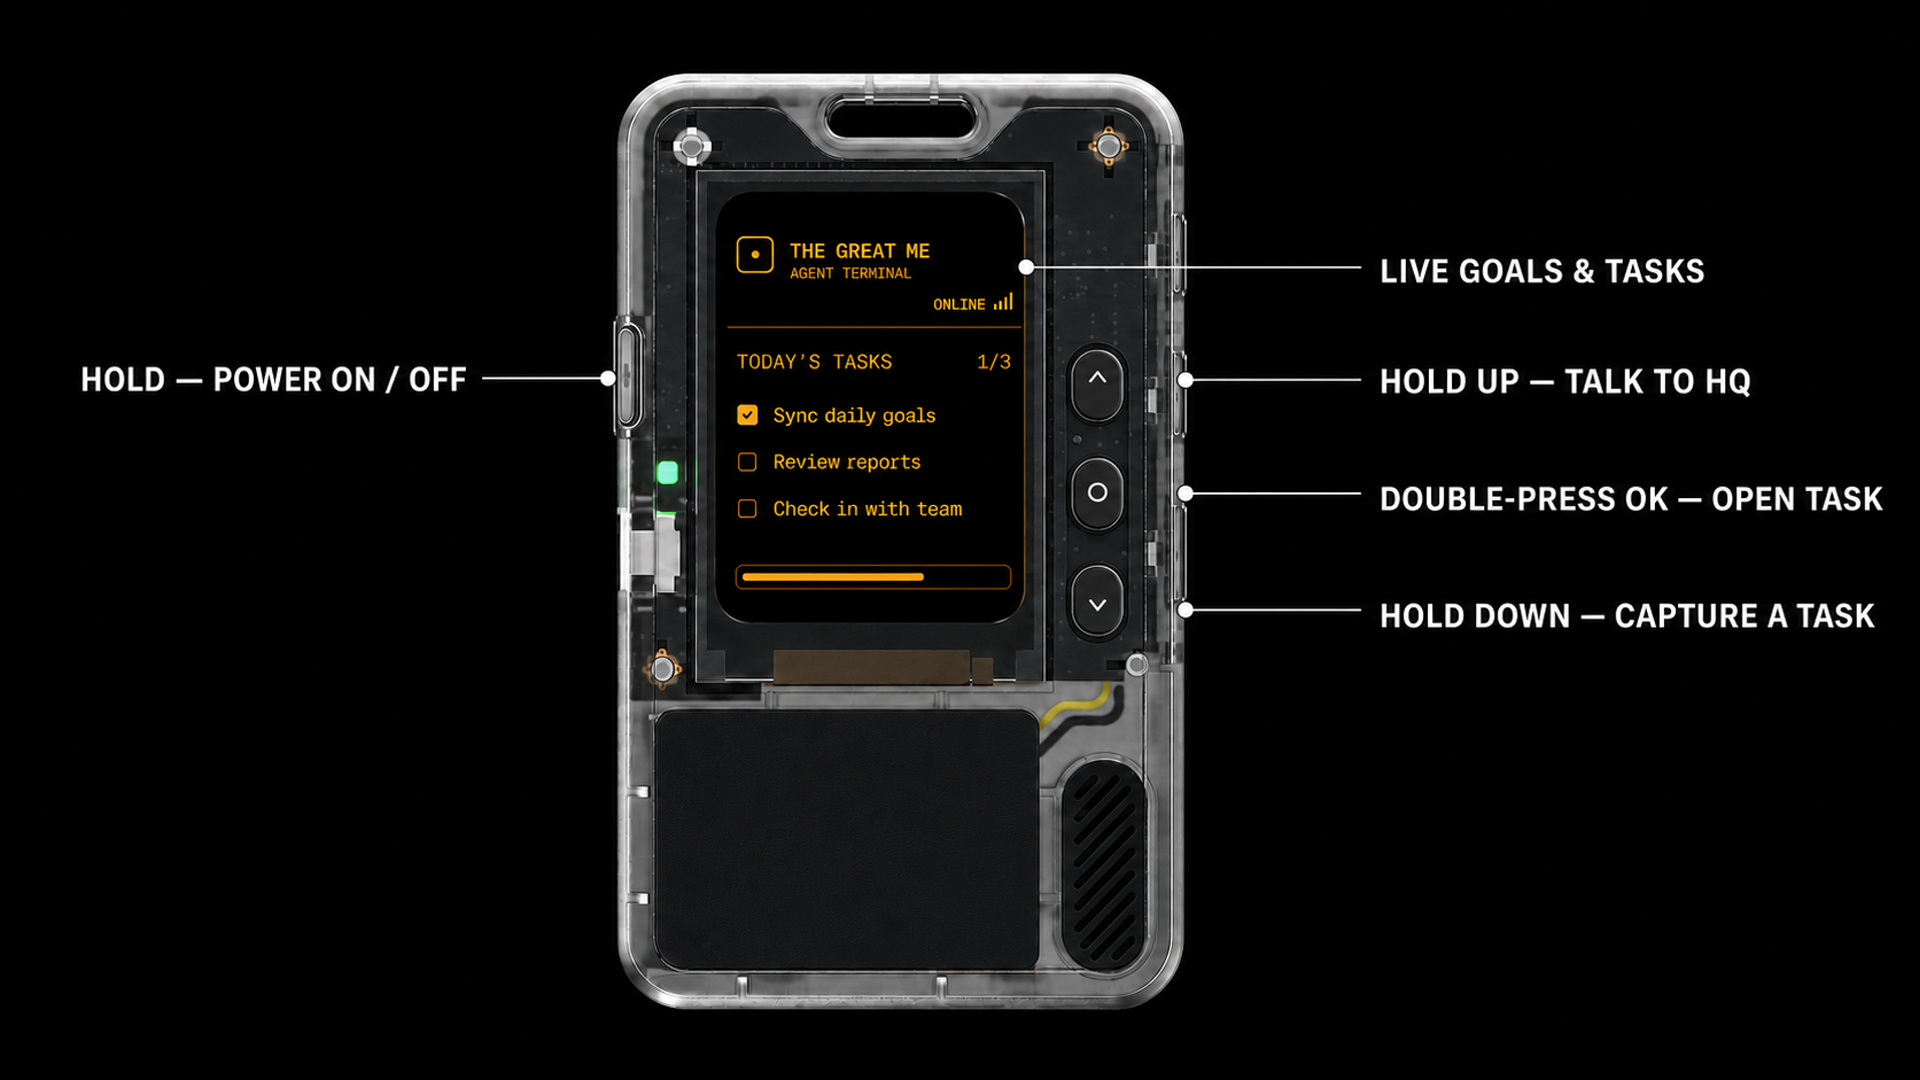
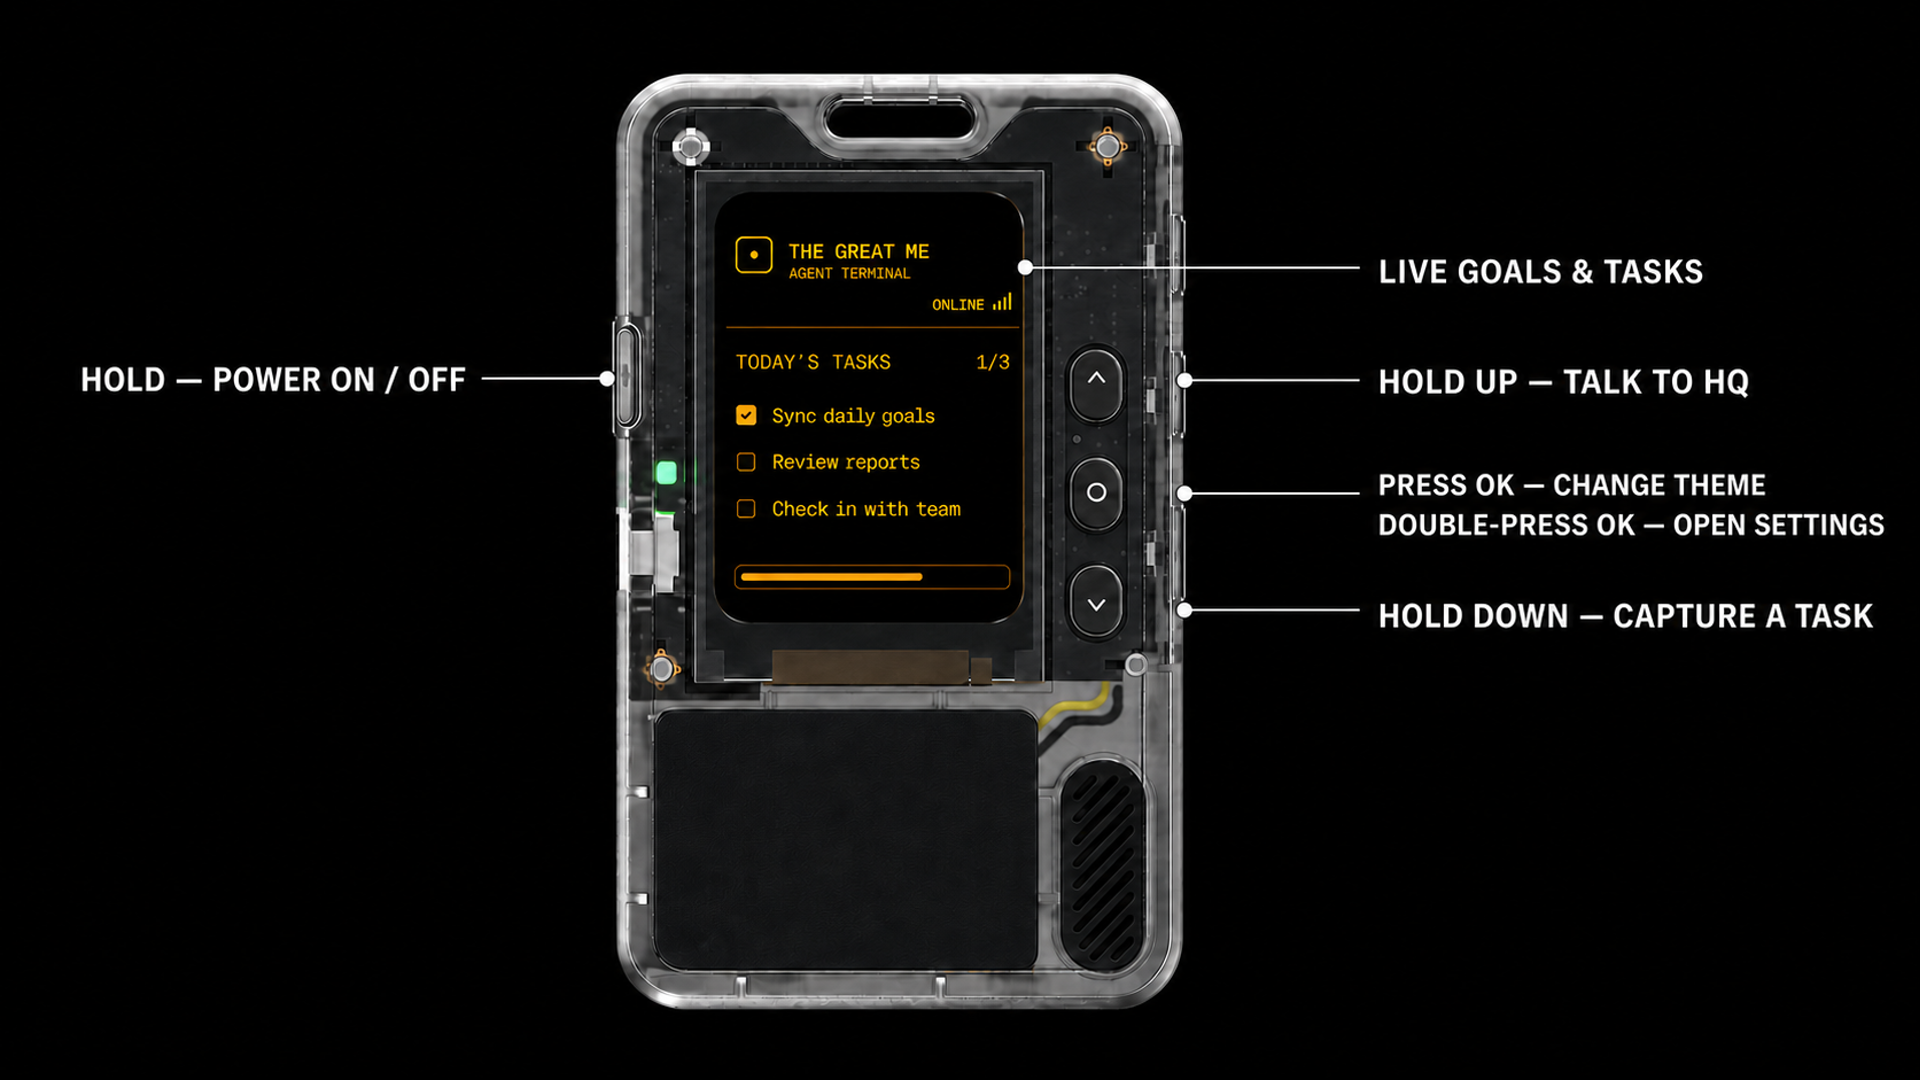
fix(passport): 统一确定键的主题与设置操作
Code: Make a single OK press cycle themes from every terminal page and reserve double OK for opening Settings. Update the control hints across all eight localized terminal copies, align the bilingual README and changelog, and refresh the matching English and Chinese callout artwork.

Files: main/demo_ble.c; README.md; README.zh_CN.md; docs/CHANGELOG.md; docs/CHANGELOG.zh_CN.md; assets/images/thegreatme-passport-terminal-callouts-16x9.png; assets/images/thegreatme-passport-terminal-callouts-zh-cn-16x9.png.

Validation: The complete repository gate passed, including static checks, host tests, the firmware build, the merged-image check, and the mini-program installation compatibility contract. Physical-device interaction remains unverified because no USB device was available.

diff --git a/main/demo_ble.c b/main/demo_ble.c
@@ -168,8 +168,8 @@ static const companion_copy_t companion_copies[] = {
         "伟大的我", "特工终端", { "琥珀", "黑色", "暖白", "数码绿" },
         { "本周目标", "本月目标", "年度目标" },
         { "等待本周目标", "等待本月目标", "等待年度目标" },
-        "今日任务", "等待手机同步今日任务", "上下切换  双击确定全屏",
-        "上下切换  双击确定返回",
+        "今日任务", "等待手机同步今日任务", "确定:主题  双击:设置",
+        "上下切换  双击:设置",
         "长按上:对话  长按下:任务", "你", "总部", "长按上键说话", "总部说话中",
         "听写中", "总部输入中", "长按上键继续", "连接中断", "系统设置", "连接状态",
         "[等待 iPhone]", "● 已连接 iPhone", "固件版本", "主题选择",
@@ -182,8 +182,8 @@ static const companion_copy_t companion_copies[] = {
         "偉大的我", "特工終端", { "琥珀", "黑色", "暖白", "數碼綠" },
         { "本週目標", "本月目標", "年度目標" },
         { "等待本週目標", "等待本月目標", "等待年度目標" },
-        "今日任務", "等待手機同步今日任務", "上下切換  雙擊確定全屏",
-        "上下切換  雙擊確定返回",
+        "今日任務", "等待手機同步今日任務", "確定:主題  雙擊:設定",
+        "上下切換  雙擊:設定",
         "長按上:對話  長按下:任務", "你", "總部", "長按上鍵說話", "總部說話中",
         "聽寫中", "總部輸入中", "長按上鍵繼續", "連線中斷", "系統設定", "連線狀態",
         "[等待 iPhone]", "● 已連線 iPhone", "韌體版本", "主題選擇",
@@ -196,8 +196,8 @@ static const companion_copy_t companion_copies[] = {
         "THE GREAT ME", "AGENT TERMINAL", { "AMBER", "BLACK", "WARM WHITE", "DIGITAL GREEN" },
         { "WEEKLY GOAL", "MONTHLY GOAL", "ANNUAL GOAL" },
         { "Waiting for weekly goal", "Waiting for monthly goal", "Waiting for annual goal" },
-        "TODAY'S TASKS", "Waiting for iPhone tasks", "UP/DOWN + OKx2: View",
-        "UP/DOWN: Switch  Double OK: Back",
+        "TODAY'S TASKS", "Waiting for iPhone tasks", "OK: Theme  OKx2: Settings",
+        "UP/DOWN: Switch  OKx2: Settings",
         "Hold UP: chat  DOWN: task", "YOU", "HQ", "Hold UP to talk", "HQ speaking",
         "Transcribing", "HQ typing", "Hold UP to continue", "Connection lost", "SYSTEM SETTINGS",
         "CONNECTION", "[WAITING FOR IPHONE]", "● IPHONE CONNECTED", "FIRMWARE", "THEME",
@@ -210,8 +210,8 @@ static const companion_copy_t companion_copies[] = {
         "MI GRAN YO", "TERMINAL DE AGENTE", { "ÁMBAR", "NEGRO", "BLANCO", "VERDE DIGITAL" },
         { "OBJETIVO SEMANAL", "OBJETIVO MENSUAL", "OBJETIVO ANUAL" },
         { "Esperando objetivo semanal", "Esperando objetivo mensual", "Esperando objetivo anual" },
-        "TAREAS DE HOY", "Esperando tareas del iPhone", "UP/DOWN + OKx2: Ver",
-        "UP/DOWN: Cambiar  Doble OK: Volver",
+        "TAREAS DE HOY", "Esperando tareas del iPhone", "OK: Tema  OKx2: Ajustes",
+        "UP/DOWN: Cambiar  OKx2: Ajustes",
         "Mantén UP: chat  DOWN: tarea", "TÚ", "HQ", "Mantén UP para hablar", "HQ está hablando",
         "Transcribiendo", "HQ está escribiendo", "Mantén UP para seguir", "Conexión perdida",
         "AJUSTES", "CONEXIÓN", "[ESPERANDO IPHONE]", "● IPHONE CONECTADO", "FIRMWARE", "TEMA",
@@ -224,8 +224,8 @@ static const companion_copy_t companion_copies[] = {
         "LE GRAND MOI", "TERMINAL D'AGENT", { "AMBRE", "NOIR", "BLANC CHAUD", "VERT NUMÉRIQUE" },
         { "OBJECTIF SEMAINE", "OBJECTIF MENSUEL", "OBJECTIF ANNUEL" },
         { "Objectif semaine en attente", "Objectif mensuel en attente", "Objectif annuel en attente" },
-        "TÂCHES DU JOUR", "Tâches iPhone en attente", "UP/DOWN + OKx2: Voir",
-        "UP/DOWN: Changer  Double OK: Retour",
+        "TÂCHES DU JOUR", "Tâches iPhone en attente", "OK: Thème  OKx2: Réglages",
+        "UP/DOWN: Changer  OKx2: Réglages",
         "Maintenir UP: chat DOWN: tâche", "VOUS", "HQ", "Maintenir UP pour parler", "HQ parle",
         "Transcription", "HQ écrit", "Maintenir UP pour continuer", "Connexion perdue", "RÉGLAGES",
         "CONNEXION", "[IPHONE EN ATTENTE]", "● IPHONE CONNECTÉ", "FIRMWARE", "THÈME",
@@ -238,8 +238,8 @@ static const companion_copy_t companion_copies[] = {
         "MEIN GROSSES ICH", "AGENTENTERMINAL", { "BERNSTEIN", "SCHWARZ", "WARMWEISS", "DIGITALGRÜN" },
         { "WOCHENZIEL", "MONATSZIEL", "JAHRESZIEL" },
         { "Warte auf Wochenziel", "Warte auf Monatsziel", "Warte auf Jahresziel" },
-        "HEUTIGE AUFGABEN", "Warte auf iPhone-Aufgaben", "UP/DOWN + OKx2: Ansicht",
-        "UP/DOWN: Wechsel  OK doppelt: Zurück",
+        "HEUTIGE AUFGABEN", "Warte auf iPhone-Aufgaben", "OK: Thema  2xOK: Einst.",
+        "UP/DOWN: Wechsel  2xOK: Einst.",
         "UP halten: Chat DOWN: Aufgabe", "DU", "HQ", "UP halten zum Sprechen", "HQ spricht",
         "Transkription", "HQ schreibt", "UP halten zum Fortsetzen", "Verbindung getrennt", "EINSTELLUNGEN",
         "VERBINDUNG", "[WARTE AUF IPHONE]", "● IPHONE VERBUNDEN", "FIRMWARE", "THEMA",
@@ -252,8 +252,8 @@ static const companion_copy_t companion_copies[] = {
         "위대한 나", "요원 단말기", { "호박색", "검정", "따뜻한 흰색", "디지털 그린" },
         { "주간 목표", "월간 목표", "연간 목표" },
         { "주간 목표 대기 중", "월간 목표 대기 중", "연간 목표 대기 중" },
-        "오늘의 작업", "iPhone 작업 동기화 대기", "UP/DOWN + OKx2: 보기",
-        "UP/DOWN: 전환  OK 두 번: 돌아가기",
+        "오늘의 작업", "iPhone 작업 동기화 대기", "OK: 테마  OKx2: 설정",
+        "UP/DOWN: 전환  OKx2: 설정",
         "UP 길게: 대화 DOWN: 작업", "나", "HQ", "UP을 길게 눌러 말하기", "HQ 말하는 중",
         "받아쓰기 중", "HQ 입력 중", "UP을 길게 눌러 계속", "연결 끊김", "시스템 설정", "연결 상태",
         "[IPHONE 대기]", "● IPHONE 연결됨", "펌웨어 버전", "테마 선택",
@@ -266,8 +266,8 @@ static const companion_copy_t companion_copies[] = {
         "偉大な私", "エージェント端末", { "アンバー", "ブラック", "ウォーム白", "デジタル緑" },
         { "今週の目標", "今月の目標", "年間目標" },
         { "今週の目標を待機", "今月の目標を待機", "年間目標を待機" },
-        "今日のタスク", "iPhoneのタスクを待機", "UP/DOWN + OKx2: 全画面",
-        "UP/DOWN: 切替  OK 2回: 戻る",
+        "今日のタスク", "iPhoneのタスクを待機", "OK: テーマ  OKx2: 設定",
+        "UP/DOWN: 切替  OKx2: 設定",
         "UP長押し: 会話 DOWN: タスク", "あなた", "HQ", "UP長押しで話す", "HQが発話中",
         "文字起こし中", "HQが入力中", "UP長押しで続ける", "接続が切れました", "システム設定", "接続状態",
         "[IPHONE待機]", "● IPHONE接続済み", "ファームウェア", "テーマ選択",
@@ -1816,28 +1816,16 @@ void demo_ble_key(bsp_btn_t button, bsp_btn_ev_t event)
     }
 
     if (button == BSP_BTN_OK && event == BSP_BTN_DOUBLE) {
-        if (s_companion_page == COMPANION_PAGE_TASK_DETAIL) {
-            show_companion_page(COMPANION_PAGE_DASHBOARD);
-            ESP_LOGI(TAG, "双击确定键,返回任务主页");
-        } else if (s_companion_page == COMPANION_PAGE_DASHBOARD) {
-            passport_board_t board = board_load(NULL);
-            if (board.task_count > 0) {
-                show_companion_page(COMPANION_PAGE_TASK_DETAIL);
-                ESP_LOGI(TAG, "双击确定键,全屏查看任务:%u/%u",
-                         s_task_index + 1, (unsigned)board.task_count);
-            }
+        if (s_companion_page != COMPANION_PAGE_SETTINGS) {
+            s_settings_return_page = s_companion_page;
+            show_companion_page(COMPANION_PAGE_SETTINGS);
+            ESP_LOGI(TAG, "双击确定键,进入全屏设置");
         }
         return;
     }
 
     if (button == BSP_BTN_OK && event == BSP_BTN_CLICK) {
-        if (s_companion_page == COMPANION_PAGE_SETTINGS) {
-            s_theme_index = (s_theme_index + 1) % COMPANION_THEME_COUNT;
-            apply_theme();
-        } else {
-            s_settings_return_page = s_companion_page;
-            show_companion_page(COMPANION_PAGE_SETTINGS);
-            ESP_LOGI(TAG, "进入全屏设置:确定键");
-        }
+        s_theme_index = (s_theme_index + 1) % COMPANION_THEME_COUNT;
+        apply_theme();
     }
 }

diff --git a/docs/CHANGELOG.zh_CN.md b/docs/CHANGELOG.zh_CN.md
@@ -10,8 +10,8 @@
 - Passport 终端界面会跟随 TheGreatMe 中选定的语言。BLE 看板协议会同步 App 解析后的
   语言，终端无需重启即可在简体中文、繁体中文、英语、西班牙语、法语、德语、韩语和
   日语间更新；内嵌字库同时覆盖全部本地化终端标签，避免出现方框字。
-- 今日任务页支持快速双击确定键，全屏查看当前选中的任务；全屏页仍可用上下键切换任务，
-  再次双击确定键返回，不改变原有单击确定键进入设置的操作。
+- 在任意终端页面单击确定键可立即切换主题，双击确定键才进入设置页；设置页仍可用上键
+  返回进入前的页面。
 - Passport 目标进度条旁保留数字百分比，按 `7%`、`42%`、`100%` 自然显示，不补前导零。
 - 总部回复改为可纵向滚动的文本视窗，长回复更新时自动跟随到最新一行；空闲时扩大
   可视区域，录音态临时收窄并保持滚动到底，避免底部文字被裁切或覆盖录音区。

diff --git a/docs/CHANGELOG.md b/docs/CHANGELOG.md
@@ -13,10 +13,9 @@
   terminal immediately for Simplified Chinese, Traditional Chinese, English,
   Spanish, French, German, Korean, and Japanese, with embedded glyph coverage
   for every localized terminal label.
-- Added quick double-OK from the task dashboard to open the selected task in a
-  full-screen detail view. UP/DOWN continues switching tasks there, and another
-  double-OK returns to the dashboard without changing the existing single-OK
-  Settings action.
+- Make a single OK press switch themes immediately from any terminal page, and
+  reserve double-OK for opening Settings. UP still returns from Settings to the
+  page that opened it.
 - Kept the numeric percentage beside the Passport goal progress bar, formatted
   naturally as `7%`, `42%`, or `100%` without zero padding.
 - Made Headquarters replies vertically scrollable and automatically follow the

diff --git a/README.md b/README.md
@@ -40,7 +40,7 @@ Do not change product behavior, commit, or push unless I explicitly ask.
 - Hold **UP** to talk to Headquarters; short-press it to stop a playing reply.
 - Hold **DOWN** to capture and organize a task.
 - Short-press **UP/DOWN** to move between tasks.
-- Double-press **OK** to open or close the selected task.
+- Short-press **OK** to change theme; double-press it to open Settings.
 
 ## Output and safety
 

diff --git a/README.zh_CN.md b/README.zh_CN.md
@@ -38,7 +38,7 @@ https://github.com/Johnnydaszhu/TheGreatMe_Passport
 - 长按**上键**与总部对话；总部语音播放时短按上键可立即停止。
 - 长按**下键**记录并整理任务。
 - 短按**上键/下键**切换任务。
-- 双击**确定键**打开或关闭当前任务。
+- 短按**确定键**切换主题；双击确定键才进入设置页面。
 
 ## 输出与安全
 
